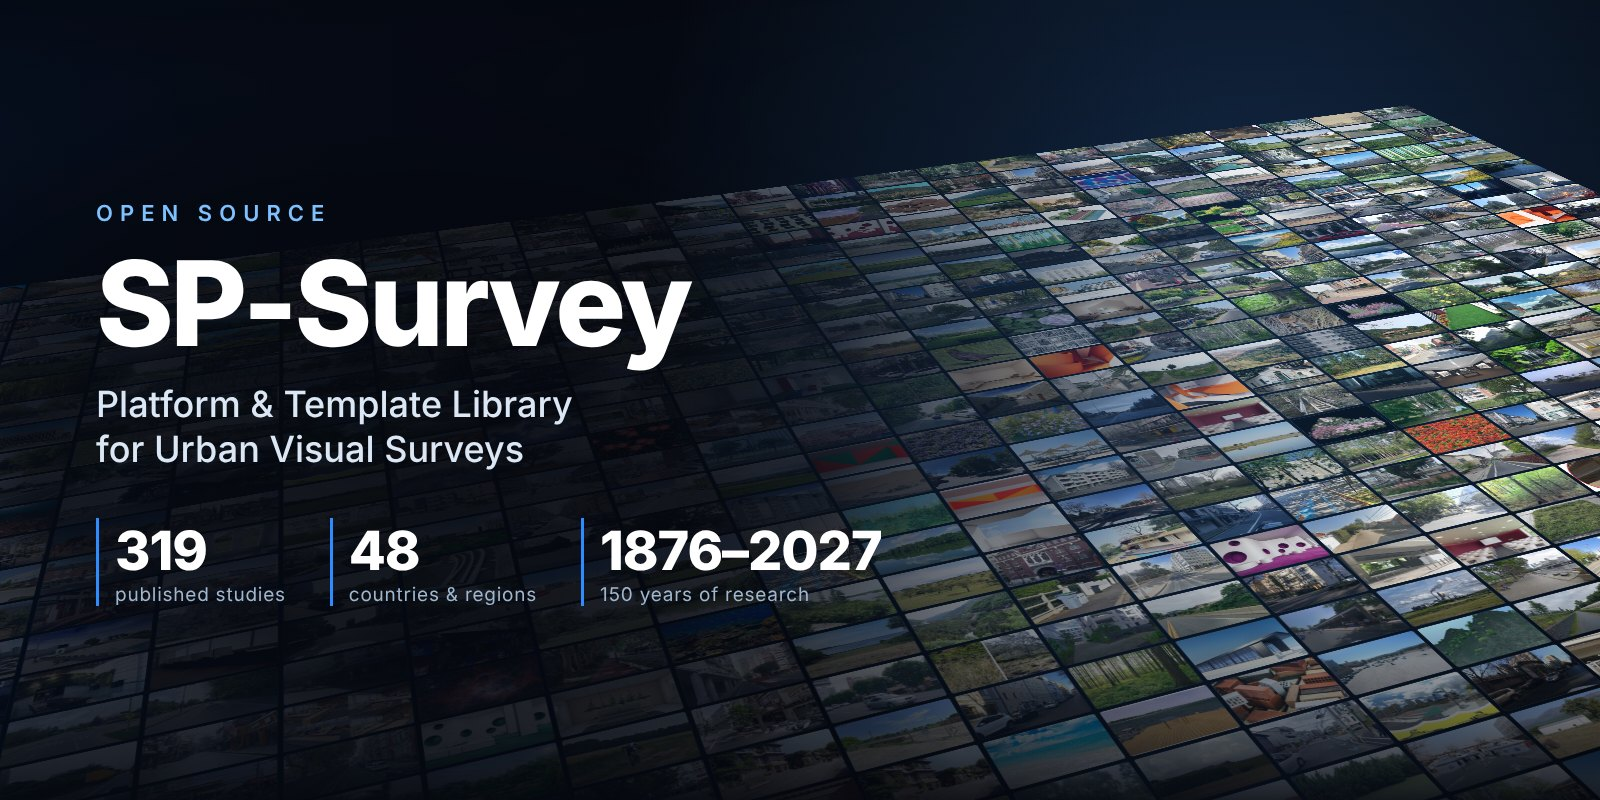
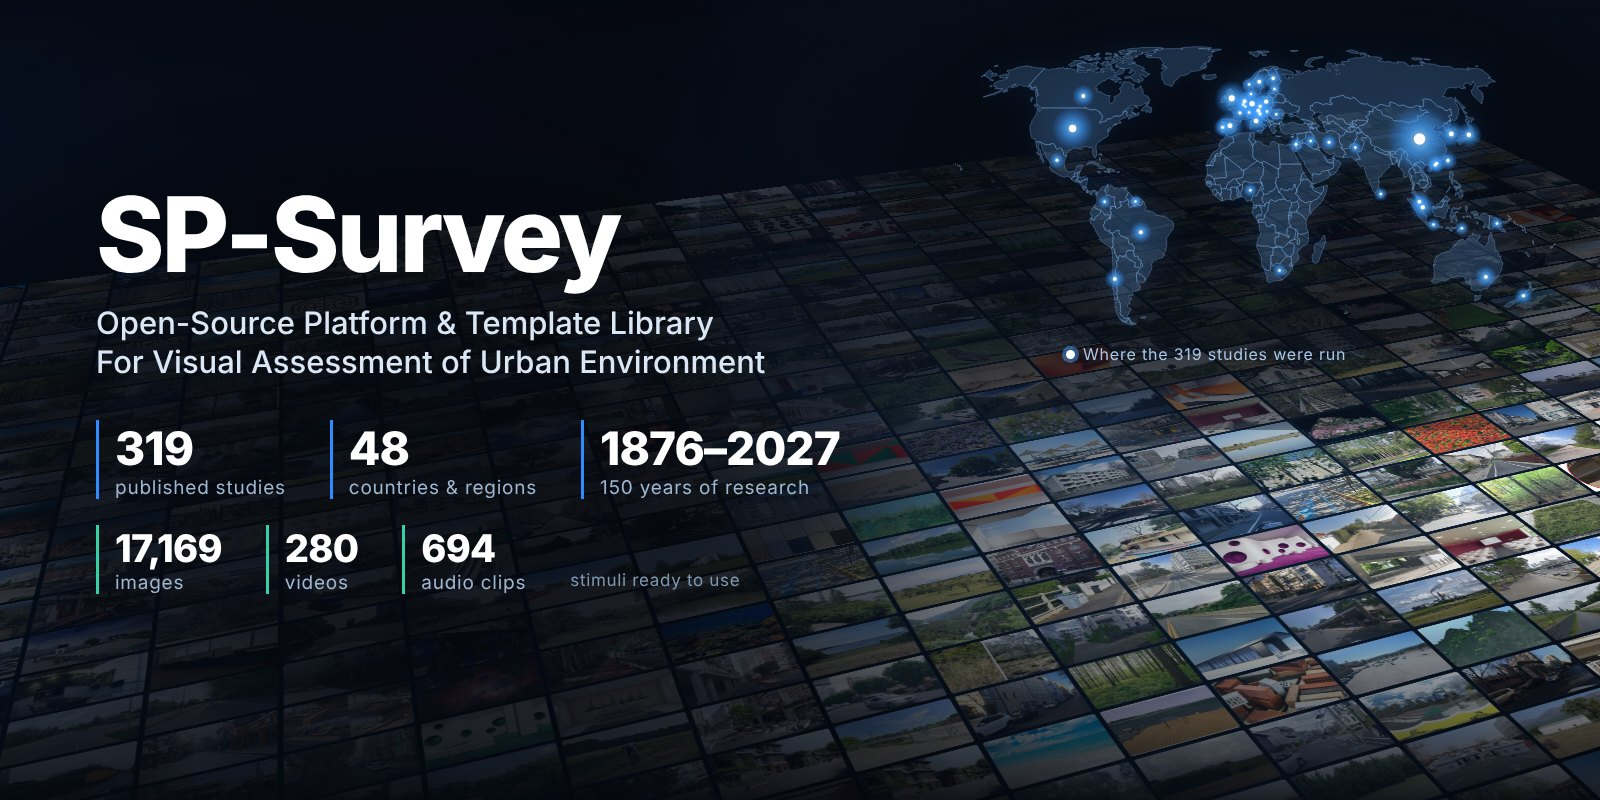
Cover: new subtitle, stimulus counts and a map of study locations

diff --git a/README.md b/README.md
@@ -1,10 +1,10 @@
 <div align="center">
 
-<img src="./docs/cover.jpg" alt="SP-Survey: platform and template library for urban visual surveys, shown over a wall of images from the template library" width="100%">
+<img src="./docs/cover.jpg" alt="SP-Survey: open-source platform and template library for visual assessment of urban environment. 319 published studies from 48 countries and regions, 17,169 images, 280 videos and 694 audio clips, with a world map of study locations" width="100%">
 
 # SP-Survey
 
-### Platform & Template Library for Urban Visual Surveys
+### Open-Source Platform & Template Library for Visual Assessment of Urban Environment
 
 **Run image-based perception surveys. Start from 300+ published studies, or describe yours and let an AI write it.**
 
